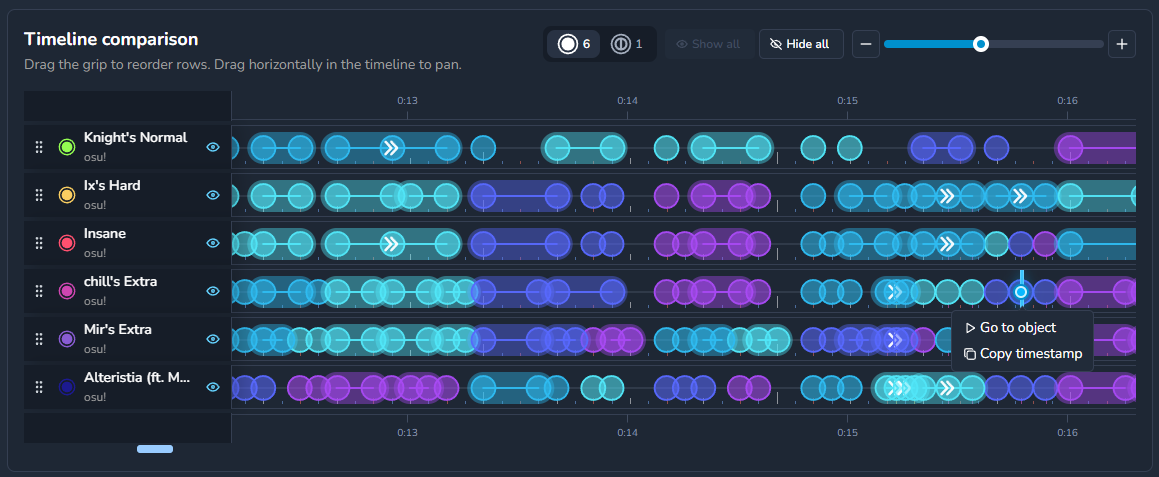
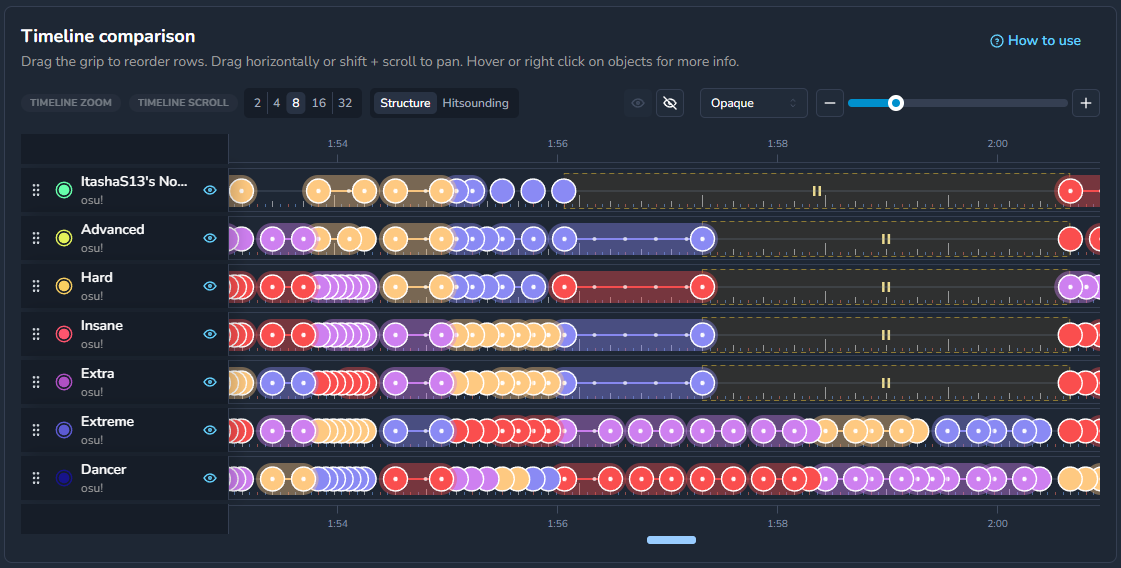
Update changelog

diff --git a/electron-app/src/content/changelog/2.0.md b/electron-app/src/content/changelog/2.0.md
@@ -2,7 +2,7 @@
 
 Welcome to MV 2.0!
 
-It's been almost 5 years since the last release by Naxess, and with the project now handed over to me (Greaper), this update brings a refreshed foundation for the future.
+It's been almost 5 years since the last release by Naxess, and with the project now handed over to me (Greaper), this update brings a refreshed foundation for the future. This is the biggest release in MV's history — the entire app has been rebuilt from scratch, checks were updated to match the current Ranking Criteria, and a long list of new features have been added to make modding and mapping easier.
 
 A big thank you to Hivie, Nostril, -kevincela-, and RandomeLoL for their help to make this release possible.
 
@@ -46,7 +46,11 @@ You'll see it displayed in the top-left when selecting a beatmapset:
 
 ![current beatmap](changelog/current-beatmap.png)
 
-Lazer support is also available and can be enabled in the settings. (This feature is still experimental for now.)
+### Experimental osu! lazer support
+
+If enabled in settings, Mapset Verifier can now detect the current beatmap you have open in osu! lazer. You'll need to open it externally from the osu! editor first.
+
+![lazer beatmap](changelog/lazer-support.png)
 
 ### Expanded Overview section
 
@@ -69,6 +73,10 @@ This section contains detailed information about all snap usage across all diffi
 
 ![objects timeline](changelog/timeline.png)
 
+A dedicated hitsound timeline was also added, letting you scrub through a difficulty and see exactly what hitsounds and volume changes are used at any point in time.
+
+![hitsounds timeline](changelog/hitsound-timeline.png)
+
 ### Difficulty
 
 This section contains graphs and charts related to difficulty, SR, and Slider Velocity values, now available for all modes!
@@ -86,8 +94,43 @@ This includes:
 
 ![spectrogram](changelog/spectrogram.png)
 
-### Experimental osu! lazer support
+### Snapshots, now with full history
 
-If enabled in settings, Mapset Verifier can now detect the current beatmap you have open in osu! lazer. You'll need to open it externally from the osu! editor first.
+Snapshots let MV keep track of how a beatmapset changes over time, and this system has been reworked considerably:
 
-![lazer beatmap](changelog/lazer-support.png)
+- A full snapshot history is now available, showing an indication whenever there wasn't a snapshot made for a certain point in time
+- Snapshots are automatically taken whenever you run checks, on top of the existing manual snapshotting, so you no longer lose track of changes between checking sessions
+- The file section of a snapshot is now split up per file type, making it much easier to review changes when a mapset has multiple file types
+- A quick way to open the snapshot folder was added for when you want to dig through the raw files yourself
+
+### Issue details drawer
+
+Clicking an issue now opens a details drawer. From here you can:
+
+- Easily copy a single issue, a whole severity group, or the entire list of issues to your clipboard
+- Jump straight to any of the issue's timestamps from a quick list
+- Read the check's documentation right there, so you can immediately see why something was flagged
+
+![issue details](changelog/issue-details.png)
+
+### Checks delta view
+
+A delta view shows exactly which issues were added, resolved, or changed between check runs, making it much easier to see what actually changed since the last time you checked a mapset.
+
+![checks delta](changelog/checks-delta.png)
+
+### Plugins
+
+With the 2.0 release, plugins have been updated as well, this means they need to be rebuilt to work. See [the new documentation here](https://github.com/Naxesss/MapsetVerifier/blob/main/docs/CUSTOM_CHECKS.md) if you need to do so.
+
+A new plugin manager has been added to the settings page to give you more insight into the custom check plugins you have loaded.
+
+### Bookmarks
+
+You can now bookmark beatmapsets for quick access later, instead of having to search for them again. This is an experimental feature for now.
+
+![bookmarks](changelog/bookmarks.png)
+
+### Beta releases
+
+We now create beta releases, this means you can have all the bleeding edge changes of MV if you can't wait for the new changes we will be making in the future. You can opt-in in the settings page under the Updates section.